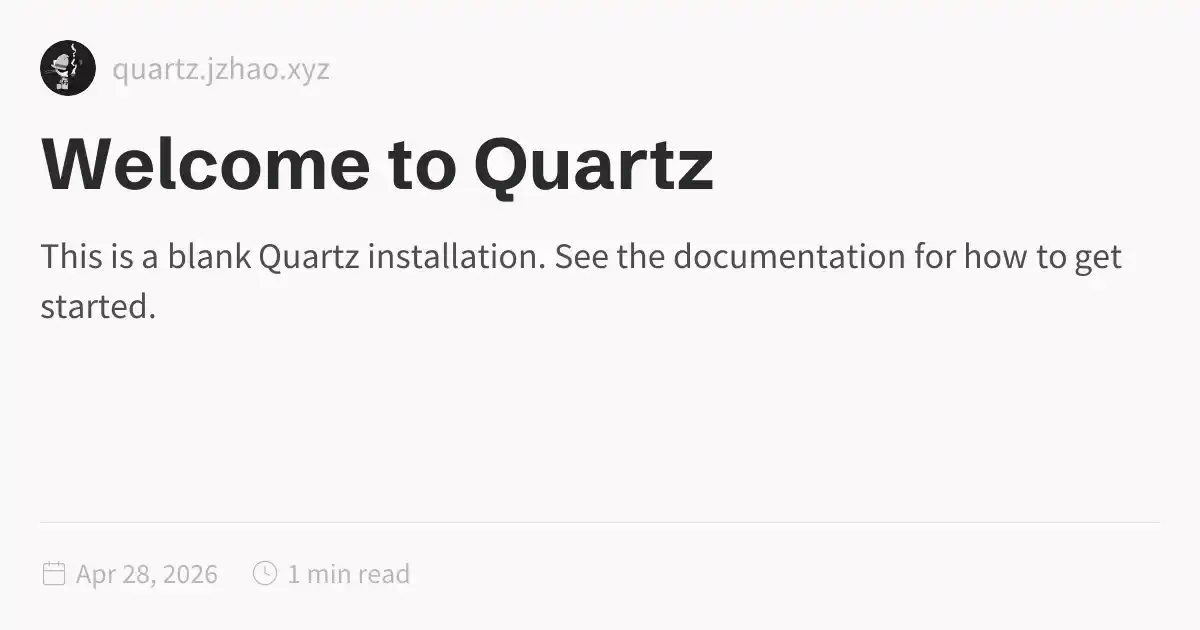
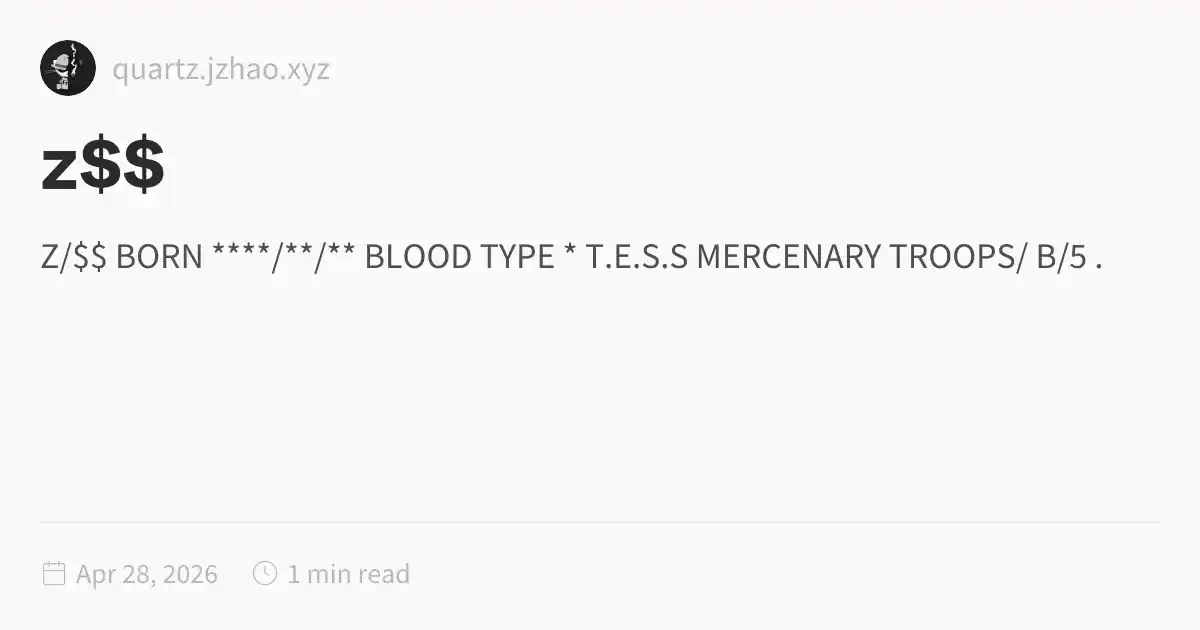
update personal profile

Changed region(s): [[0.0308, 0.2111, 0.6167, 0.3317], [0.0308, 0.3619, 0.9558, 0.4524], [0.0308, 0.4524, 0.1233, 0.5127]]

diff --git a/public/index.html b/public/index.html
@@ -1,5 +1,5 @@
 <!DOCTYPE html>
-<html lang="en" dir="ltr"><head><title>Welcome to Quartz</title><meta charset="utf-8"/><link rel="preconnect" href="https://fonts.googleapis.com"/><link rel="preconnect" href="https://fonts.gstatic.com"/><link rel="stylesheet" href="https://fonts.googleapis.com/css2?family=Schibsted Grotesk:wght@400;700&amp;family=Source Sans Pro:ital,wght@0,400;0,600;1,400;1,600&amp;family=IBM Plex Mono:wght@400;600&amp;display=swap"/><link rel="preconnect" href="https://cdnjs.cloudflare.com" crossorigin="anonymous"/><meta name="viewport" content="width=device-width, initial-scale=1.0"/><meta name="og:site_name" content="Quartz 4"/><meta property="og:title" content="Welcome to Quartz"/><meta property="og:type" content="website"/><meta name="twitter:card" content="summary_large_image"/><meta name="twitter:title" content="Welcome to Quartz"/><meta name="twitter:description" content="This is a blank Quartz installation. See the documentation for how to get started."/><meta property="og:description" content="This is a blank Quartz installation. See the documentation for how to get started."/><meta property="og:image:alt" content="This is a blank Quartz installation. See the documentation for how to get started."/><meta property="twitter:domain" content="quartz.jzhao.xyz"/><meta property="og:url" content="https://quartz.jzhao.xyz/index"/><meta property="twitter:url" content="https://quartz.jzhao.xyz/index"/><link rel="icon" href="./static/icon.png"/><meta name="description" content="This is a blank Quartz installation. See the documentation for how to get started."/><meta name="generator" content="Quartz"/><link href="./index.css" rel="stylesheet" type="text/css" data-persist="true"/><style>.expand-button {
+<html lang="en" dir="ltr"><head><title>z$$</title><meta charset="utf-8"/><link rel="preconnect" href="https://fonts.googleapis.com"/><link rel="preconnect" href="https://fonts.gstatic.com"/><link rel="stylesheet" href="https://fonts.googleapis.com/css2?family=Schibsted Grotesk:wght@400;700&amp;family=Source Sans Pro:ital,wght@0,400;0,600;1,400;1,600&amp;family=IBM Plex Mono:wght@400;600&amp;display=swap"/><link rel="preconnect" href="https://cdnjs.cloudflare.com" crossorigin="anonymous"/><meta name="viewport" content="width=device-width, initial-scale=1.0"/><meta name="og:site_name" content="Quartz 4"/><meta property="og:title" content="z$$"/><meta property="og:type" content="website"/><meta name="twitter:card" content="summary_large_image"/><meta name="twitter:title" content="z$$"/><meta name="twitter:description" content="Z/$$ BORN ****/**/** BLOOD TYPE * T.E.S.S MERCENARY TROOPS/ B/5 ."/><meta property="og:description" content="Z/$$ BORN ****/**/** BLOOD TYPE * T.E.S.S MERCENARY TROOPS/ B/5 ."/><meta property="og:image:alt" content="Z/$$ BORN ****/**/** BLOOD TYPE * T.E.S.S MERCENARY TROOPS/ B/5 ."/><meta property="twitter:domain" content="quartz.jzhao.xyz"/><meta property="og:url" content="https://quartz.jzhao.xyz/index"/><meta property="twitter:url" content="https://quartz.jzhao.xyz/index"/><link rel="icon" href="./static/icon.png"/><meta name="description" content="Z/$$ BORN ****/**/** BLOOD TYPE * T.E.S.S MERCENARY TROOPS/ B/5 ."/><meta name="generator" content="Quartz"/><link href="./index.css" rel="stylesheet" type="text/css" data-persist="true"/><style>.expand-button {
   position: absolute;
   display: flex;
   float: right;
@@ -115,8 +115,12 @@ pre:hover > .expand-button {
   padding: 0 12px;
   font-size: 14px;
 }
[1 lines of base64/hex data omitted]
-See the <a href="https://quartz.jzhao.xyz" class="external">documentation<svg aria-hidden="true" class="external-icon" style="max-width:0.8em;max-height:0.8em;" viewBox="0 0 512 512"><path d="M320 0H288V64h32 82.7L201.4 265.4 178.7 288 224 333.3l22.6-22.6L448 109.3V192v32h64V192 32 0H480 320zM32 32H0V64 480v32H32 456h32V480 352 320H424v32 96H64V96h96 32V32H160 32z"></path></svg></a> for how to get started.</p></article><hr/><div class="page-footer"></div></div><div class="right sidebar"><div class="graph"><h3>Graph View</h3><div class="graph-outer"><div class="graph-container" data-cfg="{&quot;drag&quot;:true,&quot;zoom&quot;:true,&quot;depth&quot;:1,&quot;scale&quot;:1.1,&quot;repelForce&quot;:0.5,&quot;centerForce&quot;:0.3,&quot;linkDistance&quot;:30,&quot;fontSize&quot;:0.6,&quot;opacityScale&quot;:1,&quot;showTags&quot;:true,&quot;removeTags&quot;:[],&quot;focusOnHover&quot;:false,&quot;enableRadial&quot;:false}"></div><button class="global-graph-icon" aria-label="Global Graph"><svg version="1.1" xmlns="http://www.w3.org/2000/svg" xmlns:xlink="http://www.w3.org/1999/xlink" x="0px" y="0px" viewBox="0 0 55 55" fill="currentColor" xml:space="preserve"><path d="M49,0c-3.309,0-6,2.691-6,6c0,1.035,0.263,2.009,0.726,2.86l-9.829,9.829C32.542,17.634,30.846,17,29,17
[1 lines of base64/hex data omitted]
+BORN ****/**/**
+BLOOD TYPE *
+T.E.S.S
+MERCENARY TROOPS/ B/5
+</code></pre></article><hr/><div class="page-footer"></div></div><div class="right sidebar"><div class="graph"><h3>Graph View</h3><div class="graph-outer"><div class="graph-container" data-cfg="{&quot;drag&quot;:true,&quot;zoom&quot;:true,&quot;depth&quot;:1,&quot;scale&quot;:1.1,&quot;repelForce&quot;:0.5,&quot;centerForce&quot;:0.3,&quot;linkDistance&quot;:30,&quot;fontSize&quot;:0.6,&quot;opacityScale&quot;:1,&quot;showTags&quot;:true,&quot;removeTags&quot;:[],&quot;focusOnHover&quot;:false,&quot;enableRadial&quot;:false}"></div><button class="global-graph-icon" aria-label="Global Graph"><svg version="1.1" xmlns="http://www.w3.org/2000/svg" xmlns:xlink="http://www.w3.org/1999/xlink" x="0px" y="0px" viewBox="0 0 55 55" fill="currentColor" xml:space="preserve"><path d="M49,0c-3.309,0-6,2.691-6,6c0,1.035,0.263,2.009,0.726,2.86l-9.829,9.829C32.542,17.634,30.846,17,29,17
                 s-3.542,0.634-4.898,1.688l-7.669-7.669C16.785,10.424,17,9.74,17,9c0-2.206-1.794-4-4-4S9,6.794,9,9s1.794,4,4,4
                 c0.74,0,1.424-0.215,2.019-0.567l7.669,7.669C21.634,21.458,21,23.154,21,25s0.634,3.542,1.688,4.897L10.024,42.562
                 C8.958,41.595,7.549,41,6,41c-3.309,0-6,2.691-6,6s2.691,6,6,6s6-2.691,6-6c0-1.035-0.263-2.009-0.726-2.86l12.829-12.829

diff --git a/content/index.md b/content/index.md
@@ -1,6 +1,11 @@
 ---
-title: Welcome to Quartz
+title: z$$
 ---
 
-This is a blank Quartz installation.
-See the [documentation](https://quartz.jzhao.xyz) for how to get started.
+```
+Z/$$
+BORN ****/**/**
+BLOOD TYPE *
+T.E.S.S
+MERCENARY TROOPS/ B/5
+```
